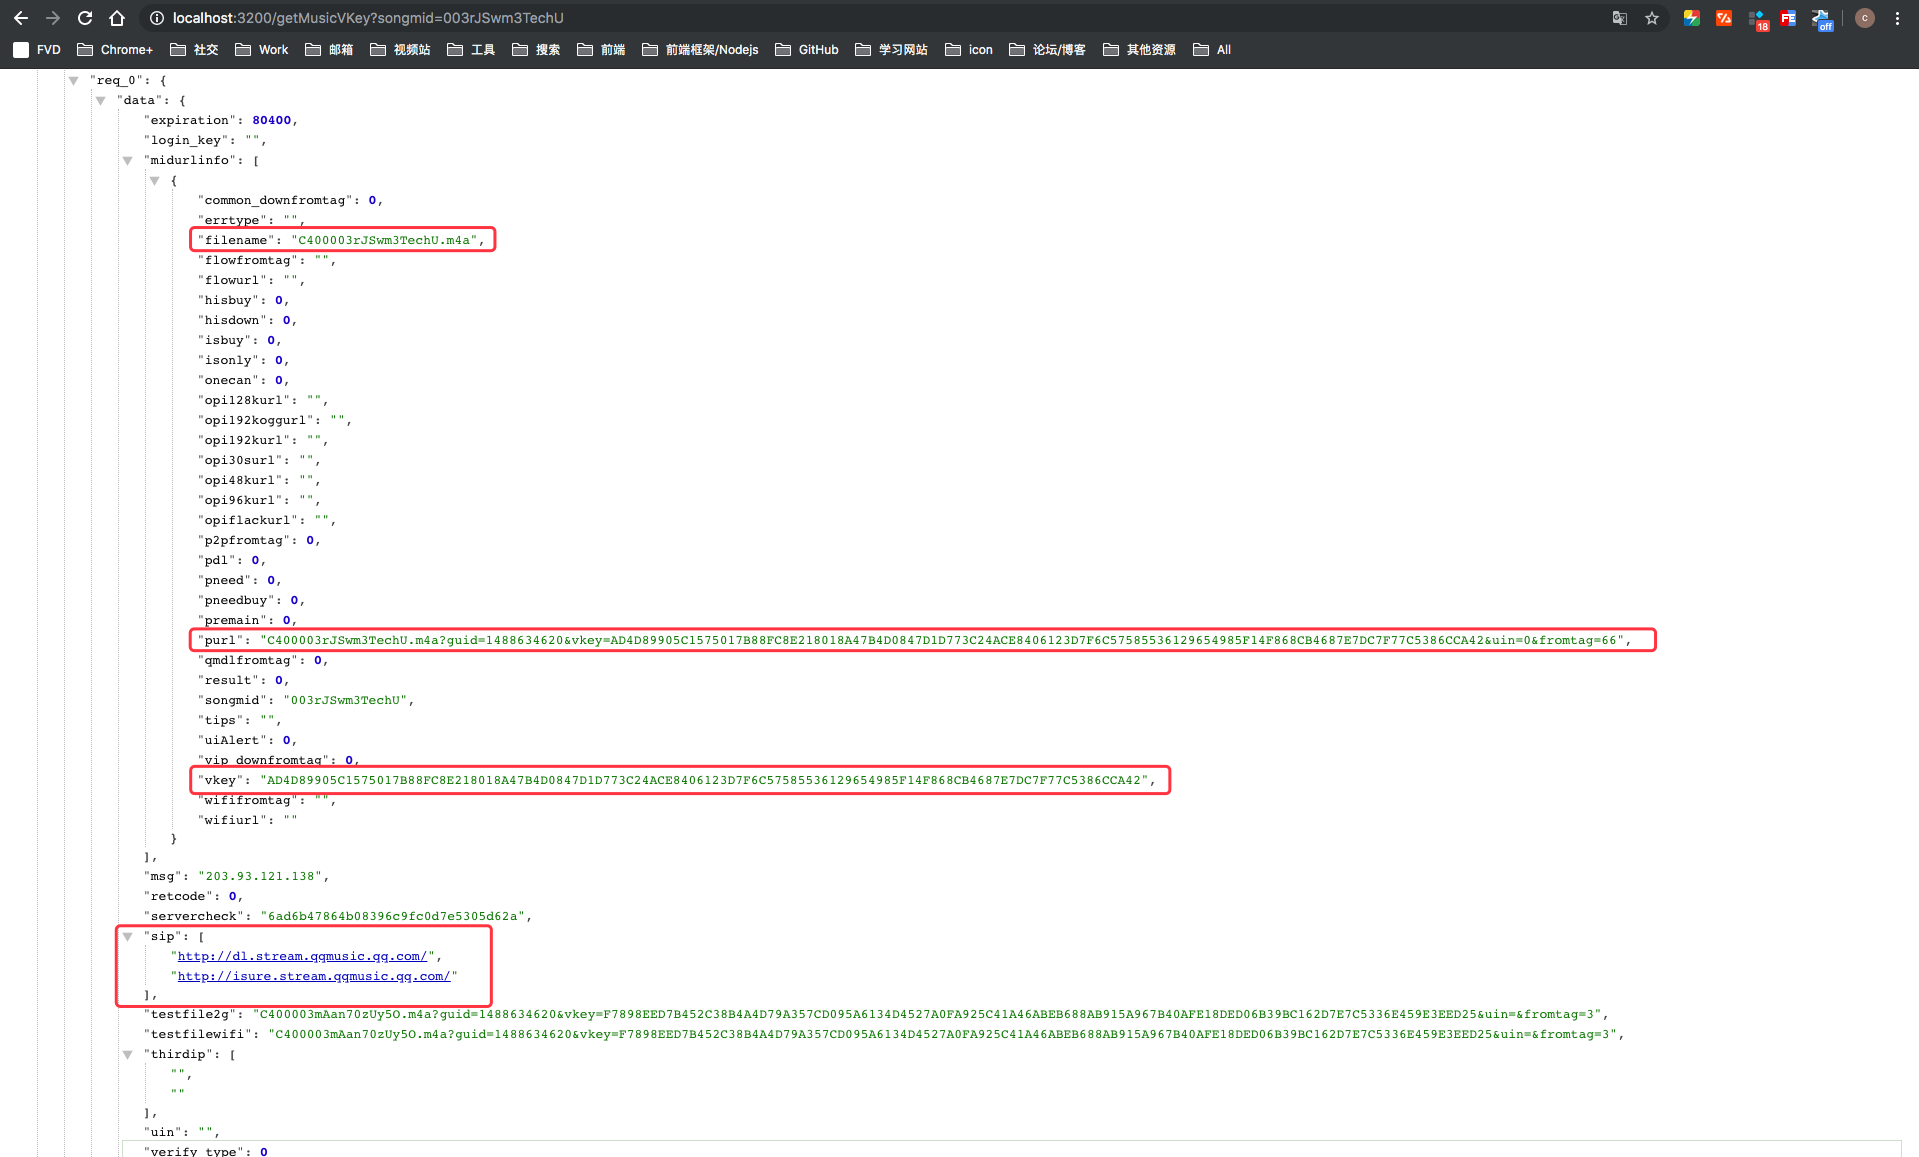
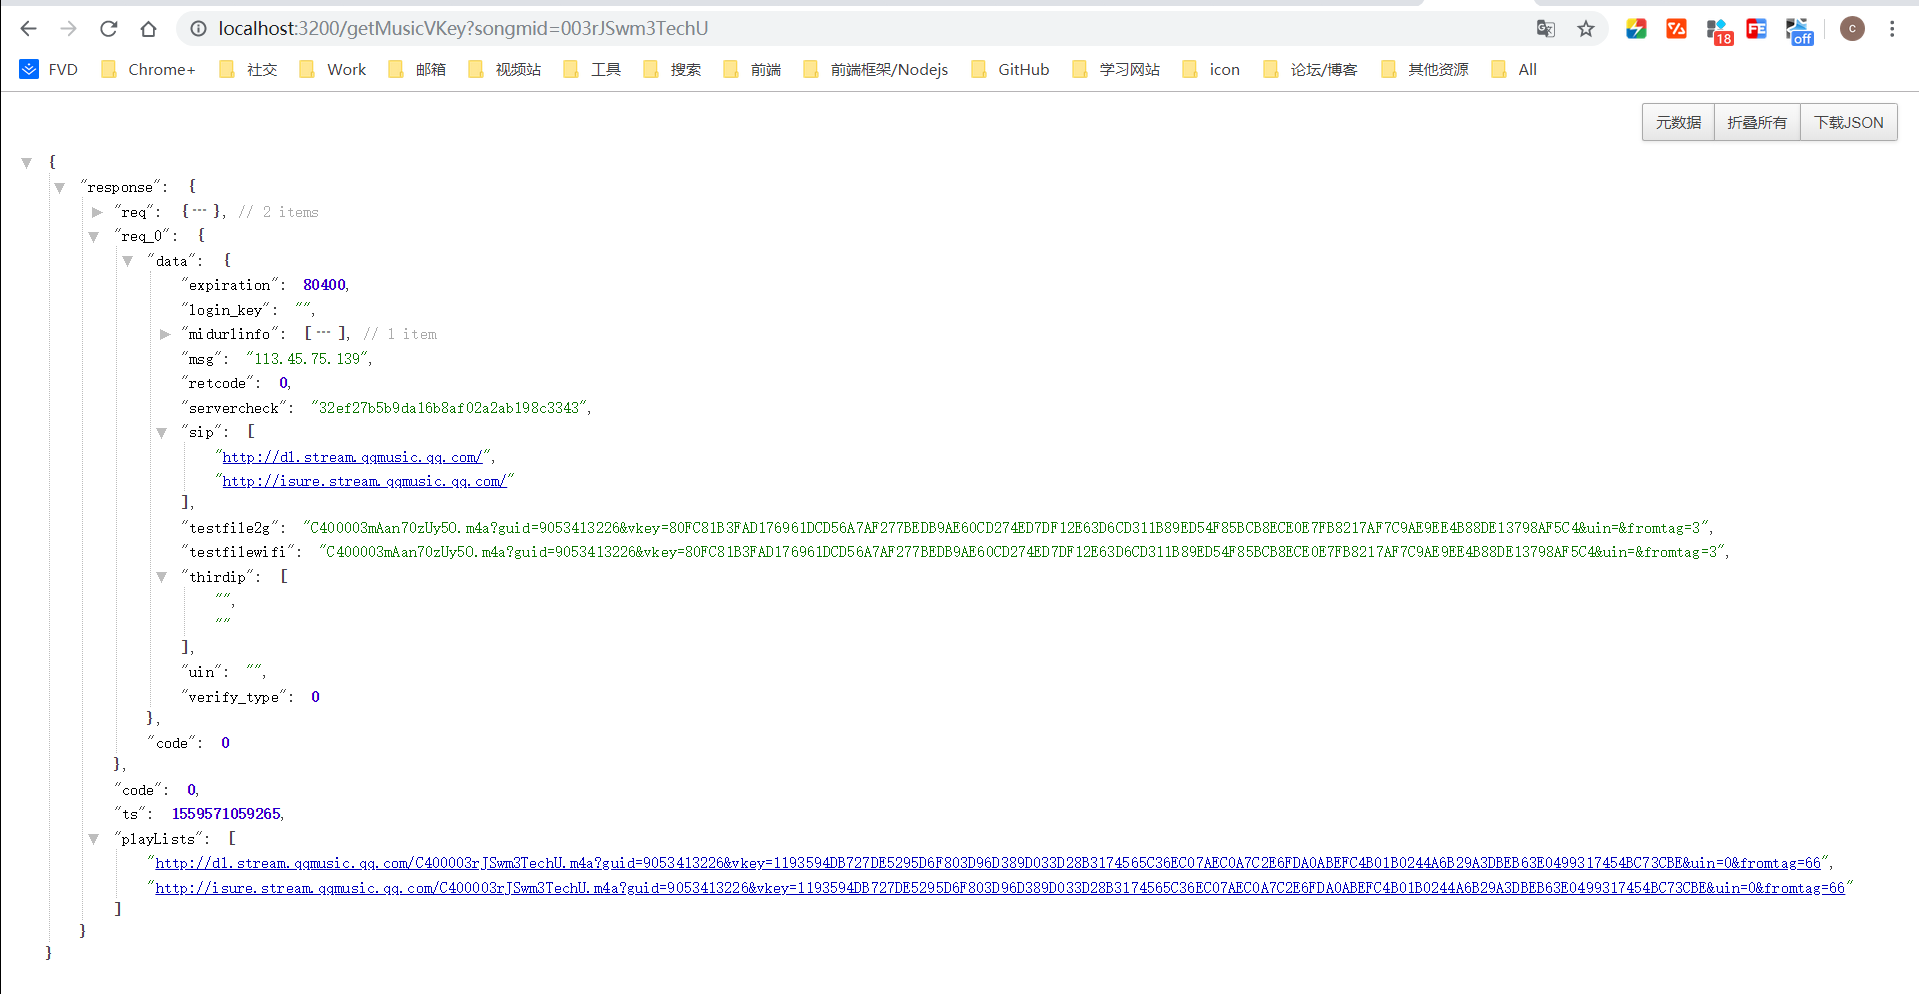
add: api about mvplay, toplist, rank; update: docs

diff --git a/routers/router.js b/routers/router.js
@@ -1,7 +1,8 @@
+const moment = require('moment');
 const Router = require('koa-router');
 const router = new Router();
 const { lyricParse } = require('../util/lyricParse');
-const { _guid } = require('../module/config');
+const { _guid, commonParams, } = require('../module/config');
 const apis = require('../module/index');
 
 // downloadQQMusic
@@ -508,7 +509,7 @@ router.get('/getSingerDesc/:singermid?', async (ctx, next) => {
     singermid,
     utf8: 1,
     outCharset: 'utf-8',
-    r: new Date().getTime(),
+    r: moment().valueOf(),
   });
   let props = {
     method: 'get',
@@ -539,7 +540,7 @@ router.get('/getSingerStarNum/:singermid?', async (ctx, next) => {
     format: 'json',
     singermid,
     utf8: 1,
-    rnd: new Date().getTime(),
+    rnd: moment().valueOf(),
   });
   let props = {
     method: 'get',
@@ -620,7 +621,7 @@ router.get('/getLyric/:songmid?/:isFormat?', async (ctx, next) => {
   let isFormat = ctx.query.isFormat || false;
   let params = Object.assign({
     format: 'json',
-    pcachetime: new Date().getTime(),
+    pcachetime: moment().valueOf(),
     songmid,
   });
   let props = {
@@ -655,40 +656,38 @@ router.get('/getLyric/:songmid?/:isFormat?', async (ctx, next) => {
 router.get('/getMusicVKey/:songmid?', async (ctx, next) => {
   let songmid = ctx.query.songmid + '';
   let guid = _guid ? _guid + '' : '1429839143';
-  // let data = {
-  //   req: {
-  //     module: "CDN.SrfCdnDispatchServer",
-  //     method: "GetCdnDispatch",
-  //     param: {
-  //       guid,
-  //       calltype: 0,
-  //       userip: ""
-  //     }
-  //   },
-  //   req_0: {
-  //     module: 'vkey.GetVkeyServer',
-  //     method: 'CgiGetVkey',
-  //     param: {
-  //       guid,
-  //       songmid: [songmid],
-  //       songtype: [0],
-  //       uin: 0,
-  //       loginflag: 1,
-  //       platform: 20
-  //     }
-  //   },
-  //   comm: {
-  //     uin: 0,
-  //     format: 'json',
-  //     ct: 24,
-  //     cv: 0
-  //   }
-  // };
-  let data = `{"req":{"module":"CDN.SrfCdnDispatchServer","method":"GetCdnDispatch","param":{"guid":"${guid}","calltype":0,"userip":""}},"req_0":{"module":"vkey.GetVkeyServer","method":"CgiGetVkey","param":{"guid":"${guid}","songmid":["${songmid}"],"songtype":[0],"uin":"0","loginflag":1,"platform":"20"}},"comm":{"uin":0,"format":"json","ct":24,"cv":0}}`
+  let data = {
+    req: {
+      module: "CDN.SrfCdnDispatchServer",
+      method: "GetCdnDispatch",
+      param: {
+        guid,
+        calltype: 0,
+        userip: ""
+      }
+    },
+    req_0: {
+      module: "vkey.GetVkeyServer",
+      method: "CgiGetVkey",
+      param: {
+        guid,
+        songmid: [songmid],
+        songtype: [0],
+        uin: "0",
+        loginflag: 1,
+        platform: "20"
+      }
+    },
+    comm: {
+      uin: 0,
+      format: "json",
+      ct: 24,
+      cv: 0
+    }
+  }
   let params = Object.assign({
     format: 'json',
-    // data: JSON.stringify(data),
-    data,
+    data: JSON.stringify(data),
   });
   let props = {
     method: 'get',
@@ -698,6 +697,14 @@ router.get('/getMusicVKey/:songmid?', async (ctx, next) => {
   if (songmid) {
     await apis.UCommon(props).then((res) => {
       let response = res.data;
+      let playLists = [];
+      let req_0 = response.req_0.data;
+      req_0.sip.map(sipURL => {
+        let purl = req_0.midurlinfo[0].purl;
+        let URI = `${sipURL}${purl}`
+        playLists.push(URI);
+      });
+      response.playLists = playLists;
       ctx.body = {
         response,
       }
@@ -890,6 +897,14 @@ router.get('/getMvPlay/:vid?', async (ctx, next) => {
       ct: 24,
       cv: 4747474
     },
+    getMVUrl: {
+      module: "gosrf.Stream.MvUrlProxy",
+      method: "GetMvUrls",
+      param: {
+        vids: [vid],
+        request_typet: 10001
+      }
+    },
     mvinfo: {
       module: "video.VideoDataServer",
       method: "get_video_info_batch",
@@ -956,6 +971,23 @@ router.get('/getMvPlay/:vid?', async (ctx, next) => {
   if (vid) {
     await apis.UCommon(props).then((res) => {
       let response = res.data;
+      let mvurls = response.getMVUrl.data;
+      let mvurlskey = Object.keys(mvurls)[0];
+      let mp4_urls = mvurls[mvurlskey].mp4.map(item => item.freeflow_url);
+      let hls_urls = mvurls[mvurlskey].hls.map(item => item.freeflow_url);
+      let urls = [...mp4_urls, ...hls_urls];
+      let play_urls = [];
+      let playLists = {};
+      urls.forEach(url => {
+        play_urls = [...play_urls, ...url]
+      });
+      playLists = {
+        f10: play_urls.filter(item => /\.f10\.mp4/.test(item)),
+        f20: play_urls.filter(item => /\.f20\.mp4/.test(item)),
+        f30: play_urls.filter(item => /\.f30\.mp4/.test(item)),
+        f40: play_urls.filter(item => /\.f40\.mp4/.test(item)),
+      }
+      response.playLists = playLists;
       ctx.status = 200;
       ctx.body = {
         response,
@@ -969,6 +1001,76 @@ router.get('/getMvPlay/:vid?', async (ctx, next) => {
       response: 'vid is null',
     }
   }
+});
+
+// rankList: getTopLists
+router.get('/getTopLists', async (ctx, next) => {
+  let params = Object.assign(commonParams, {
+    format: 'json',
+    platform: 'h5',
+    needNewCode: 1,
+  });
+  let props = {
+    method: 'get',
+    params,
+    options: {}
+  };
+  await apis.getTopLists(props).then((res) => {
+    let response = res.data;
+    if (typeof response === 'string') {
+      let reg = /^\w+\(({[^()]+})\)$/;
+      let matches = response.match(reg);
+      if (matches) {
+        response = JSON.parse(matches[1]);
+      }
+    }
+    ctx.body = {
+      response,
+    }
+  }).catch(error => {
+    console.log(`error`.error, error);
+  });
+});
+
+// ranks
+router.get('/getRanks/:topId?/:limit?/:page?', async (ctx, next) => {
+  let topId = +ctx.query.limit || 4;
+  let num = +ctx.query.limit || 20;
+  let offset = +ctx.query.page || 0;
+  let data = {
+    detail: {
+      module: "musicToplist.ToplistInfoServer",
+      method: "GetDetail",
+      param: {
+        topId,
+        offset,
+        num,
+        period: moment().format('YYYY-MM-DD')
+      }
+    },
+    comm: {
+      ct: 24,
+      cv: 0
+    }
+  };
+  let params = Object.assign({
+    format: 'json',
+    data: JSON.stringify(data),
+  });
+  let props = {
+    method: 'get',
+    params,
+    options: {}
+  };
+  await apis.UCommon(props).then((res) => {
+    let response = res.data;
+    ctx.status = 200;
+    ctx.body = {
+      response,
+    }
+  }).catch(error => {
+    console.log(`error`.error, error);
+  });
 });
 
 module.exports = router;

diff --git a/module/index.js b/module/index.js
@@ -36,6 +36,9 @@ const getAlbumComments = require('./apis/comments/getAlbumComments');
 // UCommon
 const UCommon = require('./apis/UCommon/UCommon');
 
+// getTopLists
+const getTopLists = require('./apis/rank/getTopLists');
+
 module.exports = {
   downloadQQMusic,
   // search
@@ -65,4 +68,6 @@ module.exports = {
   getAlbumComments,
   // UCommon
   UCommon,
+  // getTopLists
+  getTopLists,
 }

diff --git a/module/apis/rank/getTopLists.js b/module/apis/rank/getTopLists.js
@@ -1,0 +1,7 @@
+const y_common = require('../y_common');
+
+module.exports = ({ method = 'get', params = {}, option = {} }) => {
+  let options = Object.assign(option, { params, });
+  const hasCommonParams = false;
+  return y_common({ url: '/v8/fcg-bin/fcg_myqq_toplist.fcg', method, options, hasCommonParams, });
+}

diff --git a/docs/README.md b/docs/README.md
@@ -329,6 +329,24 @@
 
 ![获取MV标签](https://raw.githubusercontent.com/Rain120/qq-music-api/master/screenshot/getMvByTag.png)
 
+### 获取MV播放信息
+
+接口说明: 调用此接口, 可获取MV播放信息
+
+参数列表:
+
+- 必选参数
+
+`vid`: `video id`
+
+接口地址: `/getMvPlay`
+
+调用例子: `/getMvPlay?vid=u00222le4ox`
+
+示例截图:
+
+![获取MV播放信息](https://raw.githubusercontent.com/Rain120/qq-music-api/master/screenshot/getMvPlay.png)
+
 ### 获取歌手MV
 
 接口说明: 调用此接口, 可获取歌手MV
@@ -655,13 +673,13 @@
 
 接口说明: 调用此接口, 可获取获取搜索结果
 
-参数列表:
+参数列表(部分参数待注释):
 
 - 必选参数
 
 `key`: 搜索关键字
 
-`catZhida`: 
+`catZhida`: 0表示歌曲, 2表示歌手, 3表示专辑, 默认值为1
 
 - 可选参数
 
@@ -676,3 +694,53 @@
 示例截图:
 
 ![获取获取搜索结果](https://raw.githubusercontent.com/Rain120/qq-music-api/master/screenshot/getSearchByKey.png)
+
+### 获取首页推荐
+
+接口说明: 调用此接口, 可获取首页推荐
+
+接口地址: `/getRecommend`
+
+调用例子: `/getRecommend`
+
+示例截图:
+
+![获取首页推荐](https://raw.githubusercontent.com/Rain120/qq-music-api/master/screenshot/getRecommend.png)
+
+### 获取排行榜单列表
+
+接口说明: 调用此接口, 可获取排行榜单列表
+
+- 可选参数
+
+`page`: 当前页数, 默认为1
+
+`limit`: 取出歌单数量, 默认为 10
+
+接口地址: `/getTopLists`
+
+调用例子: `/getTopLists`
+
+示例截图:
+
+![获取排行榜单列表](https://raw.githubusercontent.com/Rain120/qq-music-api/master/screenshot/getTopLists.png)
+
+### 获取排行榜单详情
+
+接口说明: 调用此接口, 可获取排行榜单详情
+
+- 可选参数
+
+`topId`: 榜单`id`
+
+`page`: 当前页数, 默认为1
+
+`limit`: 取出歌单数量, 默认为 10
+
+接口地址: `/getRanks`
+
+调用例子: `/getRanks`
+
+示例截图:
+
+![获取排行榜单详情](https://raw.githubusercontent.com/Rain120/qq-music-api/master/screenshot/getRanks.png)
